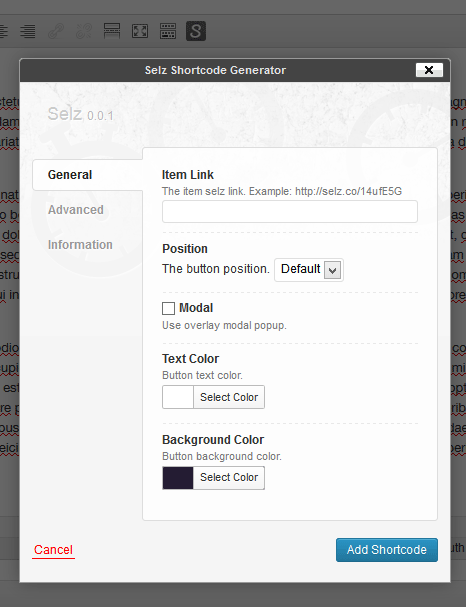
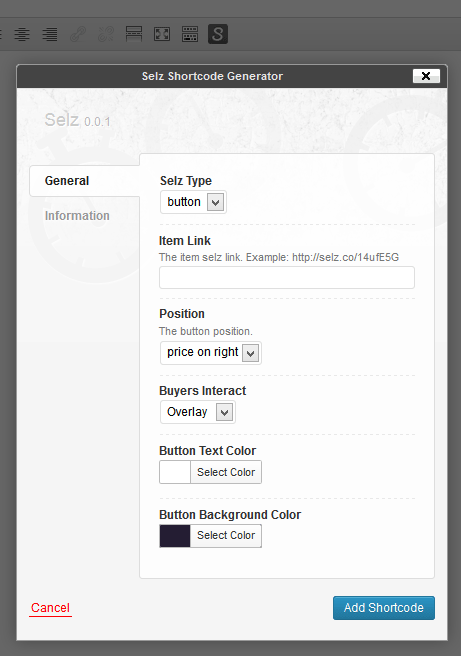
updating shortcode, screenshots, translation, git

diff --git a/selz/js/jquery.shortcode.js b/selz/js/jquery.shortcode.js
@@ -75,7 +75,7 @@ var selzShortcode;
 			if ( ! inputs.loading ) {
 				inputs.loading = true;
 				inputs.spinner.show();
-				$.post( ajaxurl, { action: spscvars.action, nonce: spscvars.nonce, data:$(inputs.dialog).serialize() }, function( data ){
+				$.post( ajaxurl, { action: selzvars.action, nonce: selzvars.nonce, data:$(inputs.dialog).serialize() }, function( data ){
 					inputs.spinner.hide();
 					inputs.options.html(data);
 					inputs.loading = false;

diff --git a/selz/dialog.php b/selz/dialog.php
@@ -25,6 +25,8 @@ class Selz_Form {
 			'interact'			=> 'modal',
 			'position'			=> 'default',
 			'link' 				=> '',
+			'type'				=> 'button',
+			'theme'				=> 'light',
 			'text_color' 		=> '#ffffff',
 			'background_color' 	=> '#241d33',
 			'tab_active'		=> array( 0 => true, 1 => false, 2 => false )
@@ -39,9 +41,19 @@ class Selz_Form {
 			__( 'Information', $this->textdomain )
 		);
 		
+		$types = array( 
+			'button' 	=> __( 'button', $this->textdomain ),  
+			'widget'	=> __( 'widget', $this->textdomain )
+		);
+		
 		$interacts = array( 
 			'modal' 	=> __( 'Overlay', $this->textdomain ),  
 			'blank'		=> __( 'New tab', $this->textdomain )
+		);		
+		
+		$themes = array( 
+			'light'		=> __( 'light', $this->textdomain ),  
+			'dark'		=> __( 'dark', $this->textdomain )
 		);		
 		
 		$button_positions = array( 
@@ -62,19 +74,38 @@ class Selz_Form {
 				<li class="tab-pane <?php if ( $instance['tab_active'][0] ) : ?>active<?php endif; ?>">
 					<ul>
 						<li>
+							<label for="<?php echo $this->get_field_id( 'type' ); ?>"><?php _e( 'Selz Type', $this->textdomain ); ?></label> 							
+							<select onchange="selzShortcode.update();" id="<?php echo $this->get_field_id( 'type' ); ?>" name="<?php echo $this->get_field_name( 'type' ); ?>">
+								<?php foreach ( $types as $k => $v ) { ?>
+									<option value="<?php echo esc_attr( $k ); ?>" <?php selected( $instance['type'], $k ); ?>><?php echo esc_html( $v ); ?></option>
+								<?php } ?>
+							</select>
+						</li>
+						<li>
 							<label for="<?php echo $this->get_field_id( 'link' ); ?>"><?php _e( 'Item Link', $this->textdomain ); ?></label>
 							<span class="description"><?php _e( 'The item selz link. Example: http://selz.co/14ufE5G', $this->textdomain ); ?></span>
 							<input type="text" class="widefat" id="<?php echo $this->get_field_id( 'link' ); ?>" name="<?php echo $this->get_field_name( 'link' ); ?>" value="<?php echo esc_attr( $instance['link'] ); ?>" />
 						</li>
-						<li>
-							<label for="<?php echo $this->get_field_id( 'position' ); ?>"><?php _e( 'Position', $this->textdomain ); ?></label> 
-							<span class="description"><?php _e( 'The button position.', $this->textdomain ); ?></span>
-							<select id="<?php echo $this->get_field_id( 'position' ); ?>" name="<?php echo $this->get_field_name( 'position' ); ?>">
-								<?php foreach ( $button_positions as $key => $val ) { ?>
-									<option value="<?php echo $key; ?>" <?php selected( $instance['position'], $key ); ?>><?php echo $val; ?></option>
-								<?php } ?>
-							</select>
-						</li>						
+						<?php if( ( 'button' == $instance['type'] ) ) : ?>
+							<li>
+								<label for="<?php echo $this->get_field_id( 'position' ); ?>"><?php _e( 'Position', $this->textdomain ); ?></label> 
+								<span class="description"><?php _e( 'The button position.', $this->textdomain ); ?></span>
+								<select id="<?php echo $this->get_field_id( 'position' ); ?>" name="<?php echo $this->get_field_name( 'position' ); ?>">
+									<?php foreach ( $button_positions as $key => $val ) { ?>
+										<option value="<?php echo $key; ?>" <?php selected( $instance['position'], $key ); ?>><?php echo $val; ?></option>
+									<?php } ?>
+								</select>
+							</li>
+						<?php else: ?>	
+							<li>
+								<label for="<?php echo $this->get_field_id( 'theme' ); ?>"><?php _e( 'Widget Theme', $this->textdomain ); ?></label> 								
+								<select id="<?php echo $this->get_field_id( 'theme' ); ?>" name="<?php echo $this->get_field_name( 'theme' ); ?>">
+									<?php foreach ( $themes as $k => $v ) { ?>
+										<option value="<?php echo esc_attr( $k ); ?>" <?php selected( $instance['theme'], $k ); ?>><?php echo esc_html( $v ); ?></option>
+									<?php } ?>
+								</select>
+							</li>	
+						<?php endif; ?>							
 						<li>
 							<label for="<?php echo $this->get_field_id( 'interact' ); ?>"><?php _e( 'Buyers Interact', $this->textdomain ); ?></label> 								
 							<select id="<?php echo $this->get_field_id( 'interact' ); ?>" name="<?php echo $this->get_field_name( 'interact' ); ?>">
@@ -84,13 +115,11 @@ class Selz_Form {
 							</select>
 						</li>	
 						<li>
-							<label for="<?php echo $this->get_field_id( 'text_color' ); ?>"><?php _e( 'Text Color', $this->textdomain ); ?></label>
-							<span class="description"><?php _e( 'Button text color.', $this->textdomain ); ?></span>
+							<label for="<?php echo $this->get_field_id( 'text_color' ); ?>"><?php _e( 'Button Text Color', $this->textdomain ); ?></label>
 							<input class="color-picker" type="text" id="<?php echo $this->get_field_id( 'text_color' ); ?>" name="<?php echo $this->get_field_name( 'text_color' ); ?>" value="<?php echo esc_attr( $instance['text_color'] ); ?>">
 						</li>
 						<li>
-							<label for="<?php echo $this->get_field_id( 'background_color' ); ?>"><?php _e( 'Background Color', $this->textdomain ); ?></label>
-							<span class="description"><?php _e( 'Button background color.', $this->textdomain ); ?></span>
+							<label for="<?php echo $this->get_field_id( 'background_color' ); ?>"><?php _e( 'Button Background Color', $this->textdomain ); ?></label>
 							<input class="color-picker" type="text" id="<?php echo $this->get_field_id( 'background_color' ); ?>" name="<?php echo $this->get_field_name( 'background_color' ); ?>" value="<?php echo esc_attr( $instance['background_color'] ); ?>">
 						</li>
 					</ul>

diff --git a/selz/widget.php b/selz/widget.php
@@ -279,13 +279,11 @@ class Selz_Widget extends WP_Widget {
 							</select>
 						</li>	
 						<li>
-							<label for="<?php echo $this->get_field_id( 'text_color' ); ?>"><?php _e( 'Text Color', $this->textdomain ); ?></label>
-							<span class="description"><?php _e( 'Button text color.', $this->textdomain ); ?></span>
+							<label for="<?php echo $this->get_field_id( 'text_color' ); ?>"><?php _e( 'Button Text Color', $this->textdomain ); ?></label>
 							<input class="color-picker" type="text" id="<?php echo $this->get_field_id( 'text_color' ); ?>" name="<?php echo $this->get_field_name( 'text_color' ); ?>" value="<?php echo esc_attr( $instance['text_color'] ); ?>">
 						</li>
 						<li>
-							<label for="<?php echo $this->get_field_id( 'background_color' ); ?>"><?php _e( 'Background Color', $this->textdomain ); ?></label>
-							<span class="description"><?php _e( 'Button background color.', $this->textdomain ); ?></span>
+							<label for="<?php echo $this->get_field_id( 'background_color' ); ?>"><?php _e( 'Button Background Color', $this->textdomain ); ?></label>
 							<input class="color-picker" type="text" id="<?php echo $this->get_field_id( 'background_color' ); ?>" name="<?php echo $this->get_field_name( 'background_color' ); ?>" value="<?php echo esc_attr( $instance['background_color'] ); ?>">
 						</li>
 					</ul>

diff --git a/selz/shortcode.php b/selz/shortcode.php
@@ -51,6 +51,8 @@ class Selz_Shortcode {
 	**/
 	function add_shortcode( $atts, $content ) {
 		$atts = shortcode_atts( array(
+			'type'				=> 'button',
+			'theme'				=> 'light',		
 			'interact' 			=> 'overlay',
 			'link' 				=> '#',
 			'text_color' 		=> '#ffffff',
